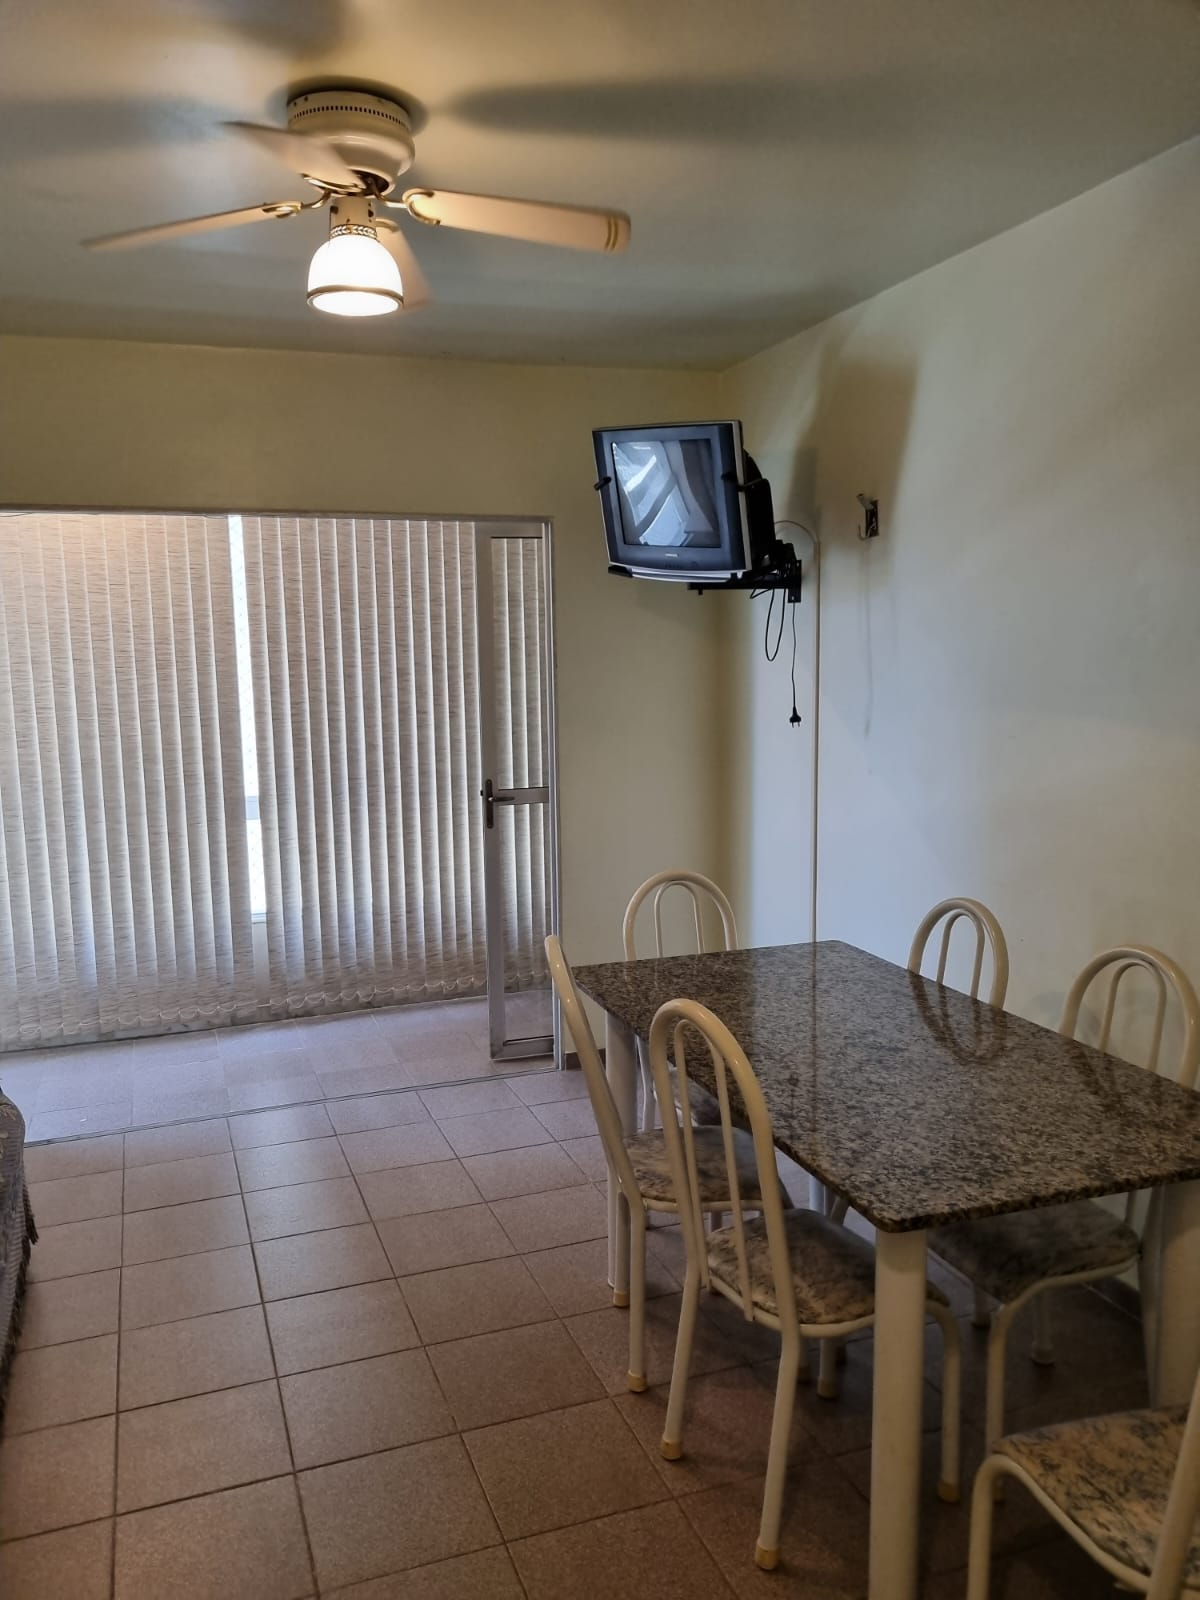
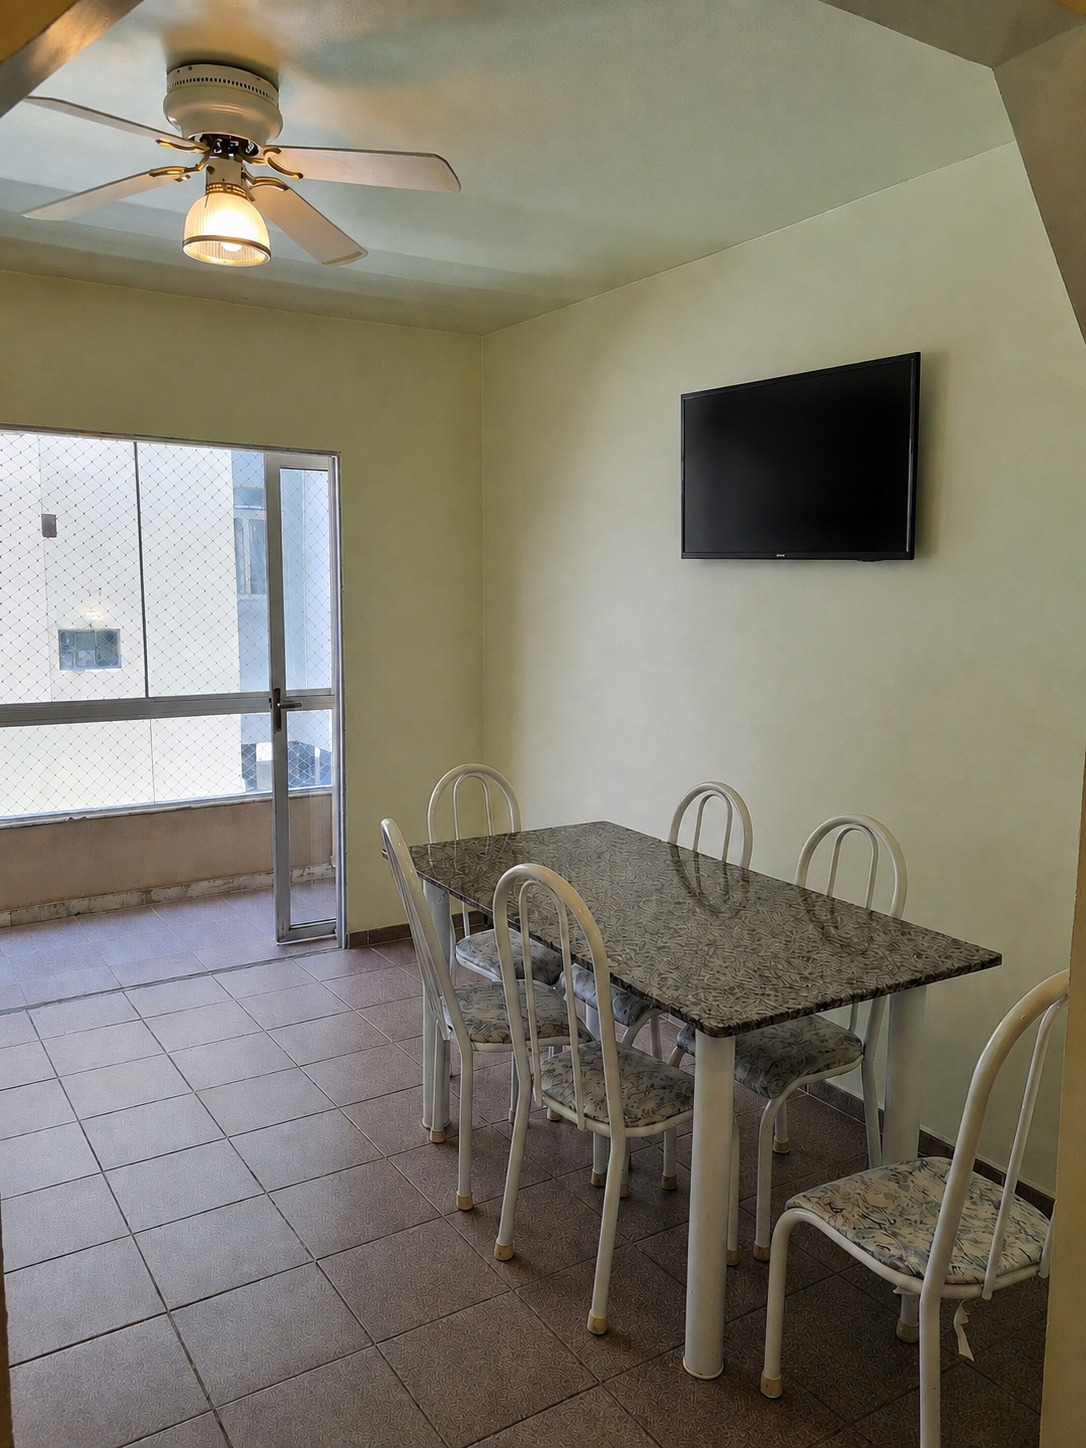
Versão modificada pelo proprietario do site

diff --git a/index.html b/index.html
@@ -190,25 +190,25 @@
           <article class="feature-card glass-panel">
             <div class="feature-icon"><i class="fa-solid fa-umbrella-beach"></i></div>
             <h3>Localização Privilegiada</h3>
-            <p>A poucos minutos da Praia do Forte, rodeado por restaurantes, quiosques, farmácias e comércio local.</p>
+            <p>A poucos passos da Praia do Forte, rodeado por restaurantes, quiosques, farmácias e comércio local.</p>
           </article>
 
           <article class="feature-card glass-panel">
             <div class="feature-icon"><i class="fa-solid fa-bed"></i></div>
             <h3>Acomodações Confortáveis</h3>
-            <p>Quartos bem distribuídos com beliches, camas de casal, armários embutidos e ventiladores de teto.</p>
+            <p>Quartos bem distribuídos com beliches, camas de casal, armários e ventiladores de teto.</p>
           </article>
 
           <article class="feature-card glass-panel">
             <div class="feature-icon"><i class="fa-solid fa-kitchen-set"></i></div>
             <h3>Cozinha Equipada</h3>
-            <p>Geladeira espaçosa, fogão, armários e utensílios completos para você preparar suas refeições com praticidade.</p>
+            <p>Geladeira espaçosa, fogão, micro-ondas, armários e utensílios completos para você preparar suas refeições com praticidade.</p>
           </article>
 
           <article class="feature-card glass-panel">
             <div class="feature-icon"><i class="fa-solid fa-shield-halved"></i></div>
             <h3>Segurança & Vaga</h3>
-            <p>Condomínio seguro com portaria, portão eletrônico e vaga de garagem privativa coberta.</p>
+            <p>Condomínio seguro com portaria, monitorimento de câmeras, portão eletrônico e vaga de garagem privativa coberta.</p>
           </article>
         </div>
       </div>
@@ -234,7 +234,14 @@
             <li><i class="fa-solid fa-check-circle"></i> 2 Banheiros completos</li>
             <li><i class="fa-solid fa-check-circle"></i> 6 minutos da Praia</li>
             <li><i class="fa-solid fa-check-circle"></i> Vaga de garagem coberta</li>
+            <li><i class="fa-solid fa-check-circle"></i> Edifício Monitorado por câmeras</li>
             <li><i class="fa-solid fa-check-circle"></i> Acesso fácil ao transporte</li>
+            <li>
+  <i class="fa-solid fa-check-circle"></i> 
+  Transporte:
+  <span class="badge-app badge-uber"><i class="fa-brands fa-uber"></i> Uber</span>
+  <span class="badge-app badge-99">99</span>
+</li>
           </ul>
         </div>
 
@@ -412,7 +419,7 @@
           <button class="filter-btn active" data-filter="all">Todas as Fotos</button>
           <button class="filter-btn" data-filter="sala">Sala</button>
           <button class="filter-btn" data-filter="quartos">Quartos</button>
-          <button class="filter-btn" data-filter="cozinha">Cozinha & WC</button>
+          <button class="filter-btn" data-filter="cozinha">Cozinha</button>
           <button class="filter-btn" data-filter="predio">Edifício / Entrada</button>
           <button class="filter-btn" data-filter="banheiros">Banheiros</button>
         </div>
@@ -433,6 +440,13 @@
               <p><i class="fa-solid fa-magnifying-glass-plus"></i> Ampliar Foto</p>
             </div>
           </div>
+          <div class="gallery-card glass-panel" data-category="sala">
+            <img src="assets/images/sala2.jpeg" alt="Sala de Jantar e Estar Decorada" width="400" height="300" loading="lazy" decoding="async">
+            <div class="gallery-card-overlay">
+              <h4>Sala de Estar e Jantar</h4>
+              <p><i class="fa-solid fa-magnifying-glass-plus"></i> Ampliar Foto</p>
+            </div>
+          </div>
 
           <div class="gallery-card glass-panel" data-category="cozinha">
             <img src="assets/images/cozinha3.jpeg" alt="Área de preparo e bancada da cozinha" width="400" height="300" loading="lazy" decoding="async">
@@ -441,6 +455,7 @@
               <p><i class="fa-solid fa-magnifying-glass-plus"></i> Ampliar Foto</p>
             </div>
           </div>
+
           <div class="gallery-card glass-panel" data-category="cozinha">
             <img src="assets/images/cozinha.jpeg" alt="Cozinha Completa e Arejada" width="400" height="300" loading="lazy" decoding="async">
             <div class="gallery-card-overlay">
@@ -448,6 +463,14 @@
               <p><i class="fa-solid fa-magnifying-glass-plus"></i> Ampliar Foto</p>
             </div>
           </div>
+          <div class="gallery-card glass-panel" data-category="cozinha">
+            <img src="assets/images/areadeserviço.jpeg" alt="Area de Serviço" width="400" height="300" loading="lazy" decoding="async">
+            <div class="gallery-card-overlay">
+              <h4>Area de Serviço</h4>
+              <p><i class="fa-solid fa-magnifying-glass-plus"></i> Ampliar Foto</p>
+            </div>
+          </div>
+          
 
           <div class="gallery-card glass-panel" data-category="predio">
             <img src="assets/images/vagadegaragem.jpeg" alt="Vaga de Garagem Coberta e Segura" width="400" height="300" loading="lazy" decoding="async">
@@ -477,6 +500,13 @@
             <img src="assets/images/quarto2.jpg" alt="Quarto de Casal com Guarda-Roupa" width="400" height="300" loading="lazy" decoding="async">
             <div class="gallery-card-overlay">
               <h4>Quarto Casal</h4>
+              <p><i class="fa-solid fa-magnifying-glass-plus"></i> Ampliar Foto</p>
+            </div>
+          </div>
+          <div class="gallery-card glass-panel" data-category="quartos">
+            <img src="assets/images/guardaroupa.jpeg" alt="Guarda Roupa do quarto de casal" width="400" height="300" loading="lazy" decoding="async">
+            <div class="gallery-card-overlay">
+              <h4>Guarda Roupa</h4>
               <p><i class="fa-solid fa-magnifying-glass-plus"></i> Ampliar Foto</p>
             </div>
           </div>

diff --git a/assets/css/style.css b/assets/css/style.css
@@ -528,6 +528,38 @@ a:hover {
   margin-top: 20px;
 }
 
+.badge-app {
+  display: inline-flex;
+  align-items: center;
+  gap: 4px;
+  padding: 3px 8px;
+  border-radius: 6px;
+  font-size: 0.76rem;
+  font-weight: 700;
+  line-height: 1;
+  vertical-align: middle;
+  box-shadow: 0 2px 6px rgba(0, 0, 0, 0.25);
+  margin-left: 3px;
+}
+
+.badge-uber {
+  background-color: #000000;
+  color: #FFFFFF;
+  border: 1px solid rgba(255, 255, 255, 0.25);
+}
+
+.badge-uber i {
+  color: #FFFFFF !important;
+  font-size: 0.85rem;
+}
+
+.badge-99 {
+  background-color: #FFC600;
+  color: #1A1A1A;
+  font-style: italic;
+  font-weight: 900;
+  border: 0.2px solid #E5B200;
+}
 .amenities-list li {
   display: flex;
   align-items: center;
